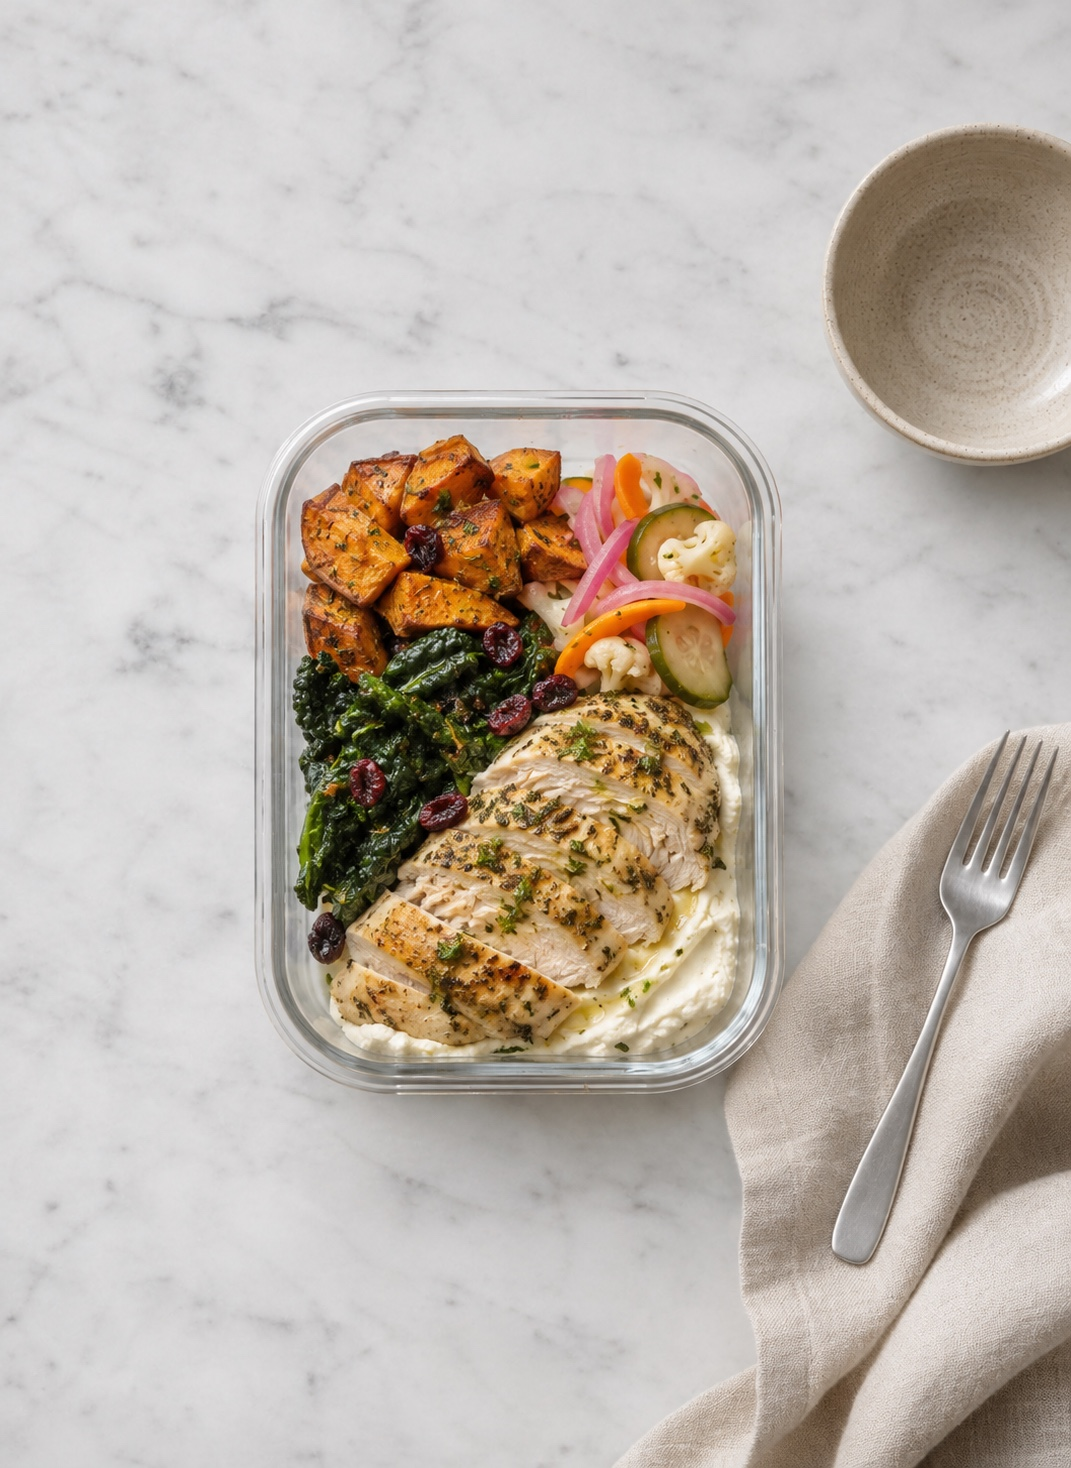
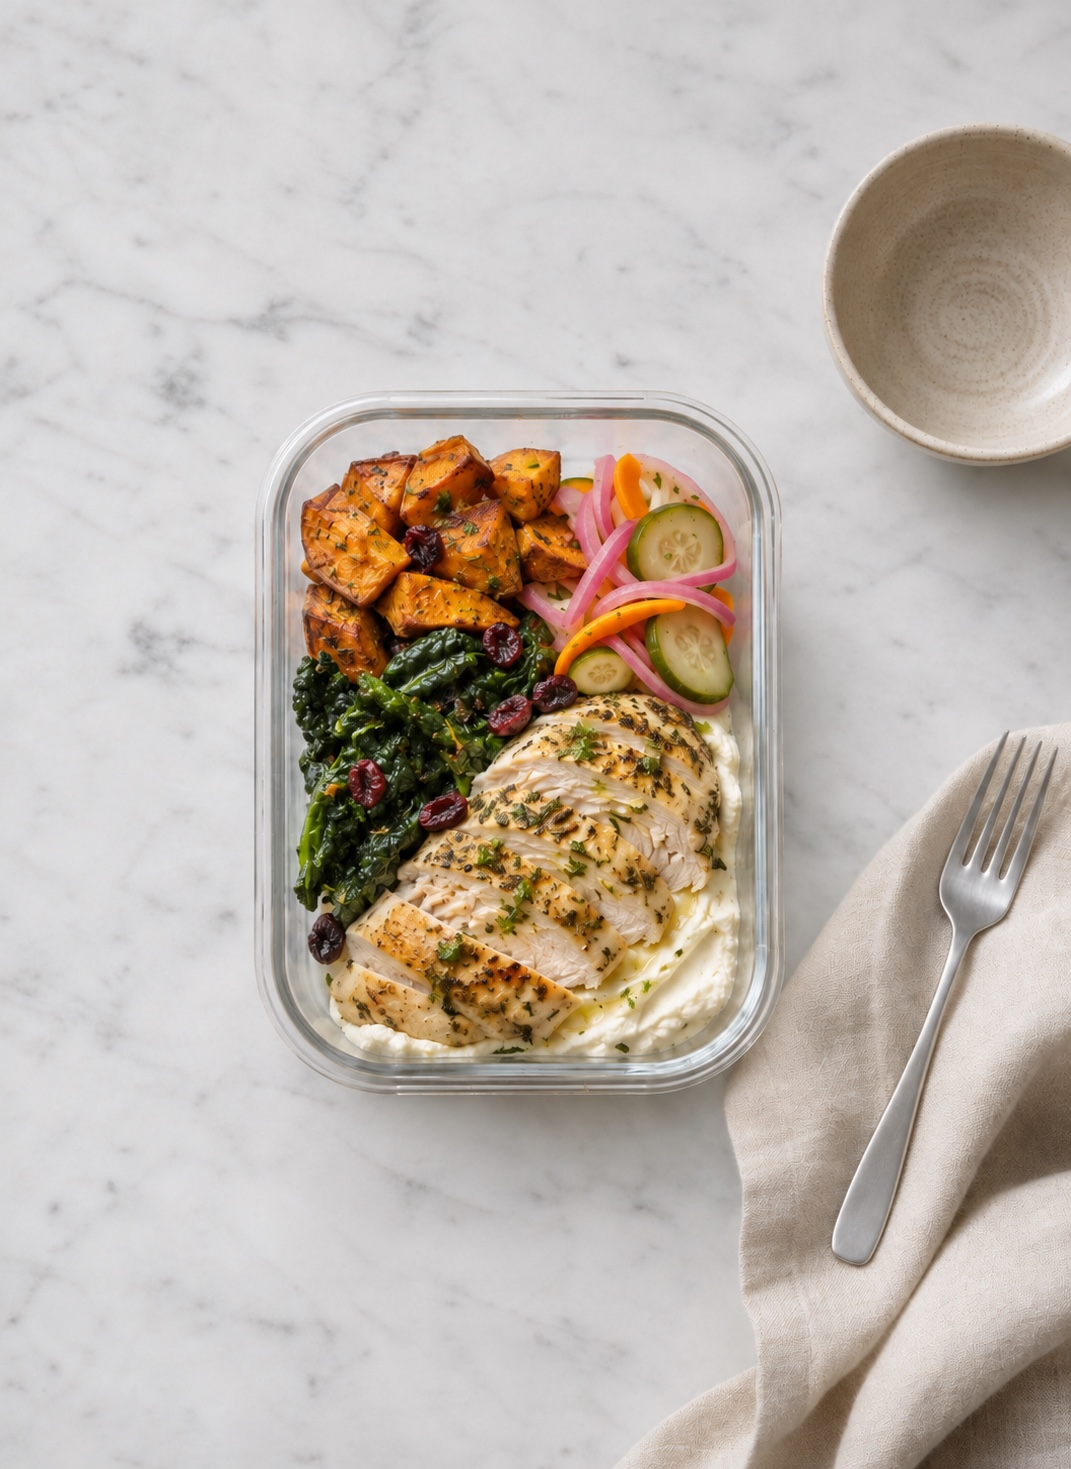
deploy(menu): nov22 atomic menu release
Automated weekly push of menu.js/index.html + preview + approved dish photos + the byte-correlated acquisition manifest so every customer-facing menu asset serves THIS week. Verified live before exit.

diff --git a/acquisition-manifest.js b/acquisition-manifest.js
@@ -1,11 +1,11 @@
-/* acquisition-manifest.json sha256=35213288f7f03bbbf3cf4790c34a17a5b9f79f788a6d58cdc3441d80f6e65075 */
+/* acquisition-manifest.json sha256=323a63ece2211baafe8769fee5bd470b1e55846ae20d393170674e95231f4b44 */
 window.HAVN_ACQUISITION_MANIFEST =
 {
   "schemaVersion": 1,
[2 lines of base64/hex data omitted]
   "menu": {
     "id": "delivery-2026-11-22",
-    "version": "sha256-020bcd161b0d805a8370e70e4493c12fd859295824a7b9fe9953a5e4730d8abb",
+    "version": "sha256-725f87c5ffe6e164ae50588e89414e7bd05dcb94252229b0332b8f0ea96e98db",
     "weekLabel": "November 22",
     "pricingPolicyId": "backend-25-10-v1",
     "offerPolicyId": "welcome-20-40-v1",
@@ -104,7 +104,7 @@ window.HAVN_ACQUISITION_MANIFEST =
           "Dairy-free"
         ],
         "image": {
-          "url": "/assets/releases/sha256-020bcd161b0d805a8370e70e4493c12fd859295824a7b9fe9953a5e4730d8abb/cheat.jpg",
+          "url": "/assets/releases/sha256-725f87c5ffe6e164ae50588e89414e7bd05dcb94252229b0332b8f0ea96e98db/cheat.jpg",
           "width": 1024,
           "height": 1408,
           "format": "jpeg",
@@ -139,7 +139,7 @@ window.HAVN_ACQUISITION_MANIFEST =
           "Extra protein"
         ],
         "image": {
-          "url": "/assets/releases/sha256-020bcd161b0d805a8370e70e4493c12fd859295824a7b9fe9953a5e4730d8abb/chicken.jpg",
+          "url": "/assets/releases/sha256-725f87c5ffe6e164ae50588e89414e7bd05dcb94252229b0332b8f0ea96e98db/chicken.jpg",
           "width": 1163,
           "height": 1600,
           "format": "jpeg",
@@ -177,11 +177,11 @@ window.HAVN_ACQUISITION_MANIFEST =
           "Dairy-free"
         ],
         "image": {
-          "url": "/assets/releases/sha256-020bcd161b0d805a8370e70e4493c12fd859295824a7b9fe9953a5e4730d8abb/chicken_2.jpg",
+          "url": "/assets/releases/sha256-725f87c5ffe6e164ae50588e89414e7bd05dcb94252229b0332b8f0ea96e98db/chicken_2.jpg",
           "width": 1071,
-          "height": 1468,
+          "height": 1469,
           "format": "jpeg",
[2 lines of base64/hex data omitted]
           "alt": "Lemon Herb Chicken with Whipped Feta"
         }
       },
@@ -212,7 +212,7 @@ window.HAVN_ACQUISITION_MANIFEST =
           "Extra protein"
         ],
         "image": {
-          "url": "/assets/releases/sha256-020bcd161b0d805a8370e70e4493c12fd859295824a7b9fe9953a5e4730d8abb/beef.jpg",
+          "url": "/assets/releases/sha256-725f87c5ffe6e164ae50588e89414e7bd05dcb94252229b0332b8f0ea96e98db/beef.jpg",
           "width": 654,
           "height": 900,
           "format": "jpeg",
@@ -247,7 +247,7 @@ window.HAVN_ACQUISITION_MANIFEST =
           "Extra protein"
         ],
         "image": {
-          "url": "/assets/releases/sha256-020bcd161b0d805a8370e70e4493c12fd859295824a7b9fe9953a5e4730d8abb/seafood.jpg",
+          "url": "/assets/releases/sha256-725f87c5ffe6e164ae50588e89414e7bd05dcb94252229b0332b8f0ea96e98db/seafood.jpg",
           "width": 1024,
           "height": 1408,
           "format": "jpeg",
@@ -282,7 +282,7 @@ window.HAVN_ACQUISITION_MANIFEST =
           "Extra protein"
         ],
         "image": {
-          "url": "/assets/releases/sha256-020bcd161b0d805a8370e70e4493c12fd859295824a7b9fe9953a5e4730d8abb/seafood_2.jpg",
+          "url": "/assets/releases/sha256-725f87c5ffe6e164ae50588e89414e7bd05dcb94252229b0332b8f0ea96e98db/seafood_2.jpg",
           "width": 1024,
           "height": 1408,
           "format": "jpeg",
@@ -322,7 +322,7 @@ window.HAVN_ACQUISITION_MANIFEST =
           "Gluten-free"
         ],
         "image": {
-          "url": "/assets/releases/sha256-020bcd161b0d805a8370e70e4493c12fd859295824a7b9fe9953a5e4730d8abb/pasta.jpg",
+          "url": "/assets/releases/sha256-725f87c5ffe6e164ae50588e89414e7bd05dcb94252229b0332b8f0ea96e98db/pasta.jpg",
           "width": 1024,
           "height": 1408,
           "format": "jpeg",
@@ -357,7 +357,7 @@ window.HAVN_ACQUISITION_MANIFEST =
           "Extra protein"
         ],
         "image": {
-          "url": "/assets/releases/sha256-020bcd161b0d805a8370e70e4493c12fd859295824a7b9fe9953a5e4730d8abb/vegetarian.jpg",
+          "url": "/assets/releases/sha256-725f87c5ffe6e164ae50588e89414e7bd05dcb94252229b0332b8f0ea96e98db/vegetarian.jpg",
           "width": 1163,
           "height": 1600,
           "format": "jpeg",
@@ -393,7 +393,7 @@ window.HAVN_ACQUISITION_MANIFEST =
           "Extra protein"
         ],
         "image": {
-          "url": "/assets/releases/sha256-020bcd161b0d805a8370e70e4493c12fd859295824a7b9fe9953a5e4730d8abb/salad.jpg",
+          "url": "/assets/releases/sha256-725f87c5ffe6e164ae50588e89414e7bd05dcb94252229b0332b8f0ea96e98db/salad.jpg",
           "width": 1280,
           "height": 1600,
           "format": "jpeg",
@@ -432,7 +432,7 @@ window.HAVN_ACQUISITION_MANIFEST =
           "Dairy-free"
         ],
         "image": {
-          "url": "/assets/releases/sha256-020bcd161b0d805a8370e70e4493c12fd859295824a7b9fe9953a5e4730d8abb/salad_2.jpg",
+          "url": "/assets/releases/sha256-725f87c5ffe6e164ae50588e89414e7bd05dcb94252229b0332b8f0ea96e98db/salad_2.jpg",
           "width": 1024,
           "height": 1280,
           "format": "jpeg",
